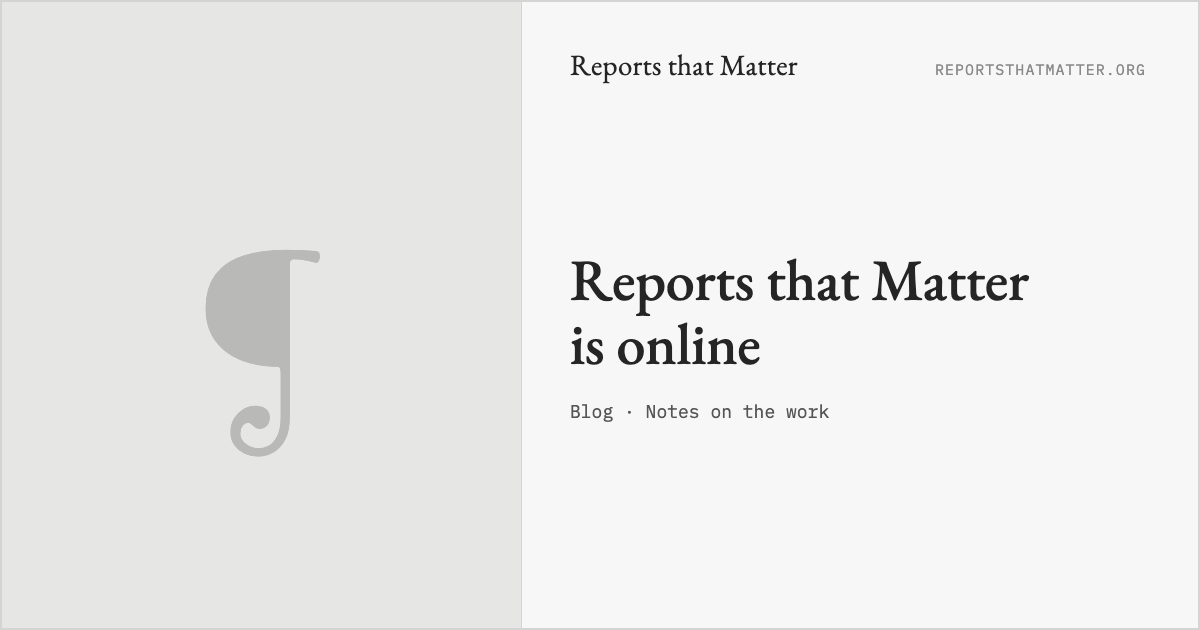
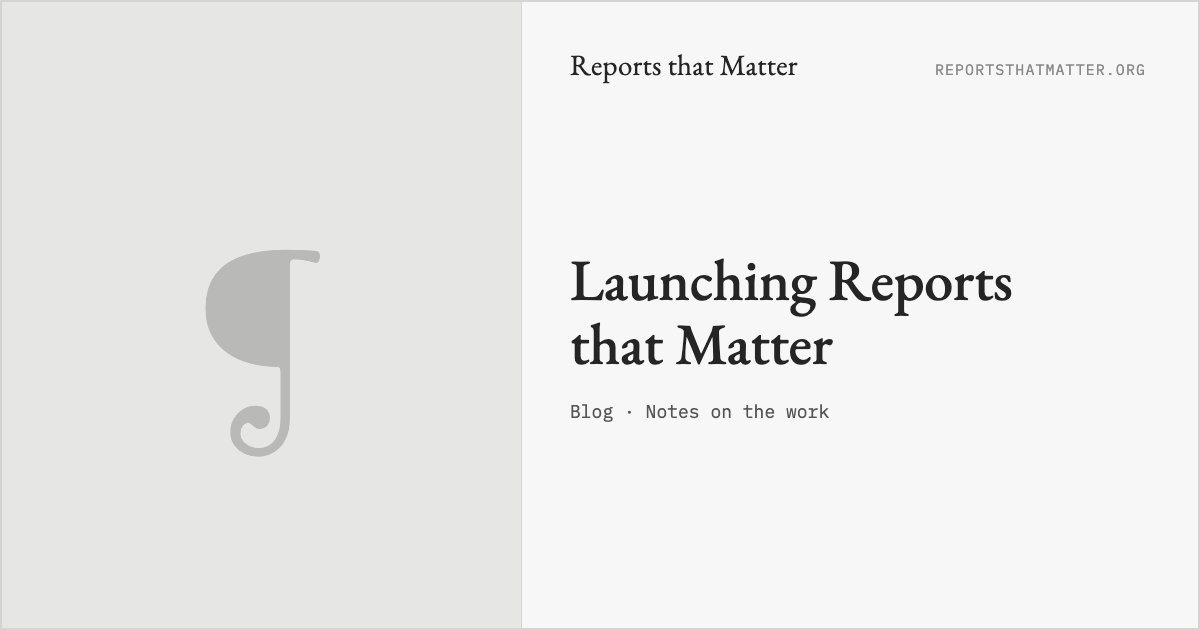
Announce post: Fable's edit (blockquotes, light bolding, report list), new title, bold-link line renders as buttons

Changed region(s): [[0.4625, 0.3921, 0.8633, 0.6032]]

diff --git a/assets/styles.css b/assets/styles.css
@@ -2081,3 +2081,22 @@ html.passage-landing body {
   font-size: 0.85rem;
   line-height: 1.5;
 }
+
+/* A post paragraph made only of bold links (e.g. "**[Visit the site →](…)** · **[Why I built it →](…)**") renders as buttons. */
+.prose p:has(> strong > a):not(:has(> :not(strong))) {
+  display: flex;
+  flex-wrap: wrap;
+  gap: 0.75rem;
+  font-size: 0; /* hides the " · " separator */
+}
+.prose p:has(> strong > a):not(:has(> :not(strong))) > strong { font-size: 1rem; font-weight: inherit; }
+.prose p:has(> strong > a):not(:has(> :not(strong))) > strong > a {
+  display: inline-block;
+  padding: 0.7rem 1.4rem;
+  border: 1px solid var(--inverse);
+  color: var(--ink);
+  text-decoration: none;
+  transition: background 0.15s ease, color 0.15s ease;
+}
+.prose p:has(> strong > a):not(:has(> :not(strong))) > strong:first-child > a { background: var(--inverse); color: var(--canvas); }
+.prose p:has(> strong > a):not(:has(> :not(strong))) > strong > a:hover { background: var(--inverse); color: var(--canvas); }

diff --git a/content/posts/reports-that-matter-is-online.md b/content/posts/reports-that-matter-is-online.md
@@ -1,14 +1,16 @@
 ---
-title: "Reports that Matter is online: 24 public inquiries as web pages you can read, search and link to"
+title: "Launching Reports that Matter: public inquiries as web pages you can read, search and link to"
 date: "2026-11-24"
 author: "Rufus Pollock"
 summary: "The official reports on 9/11, the financial crisis, the tobacco companies, Columbia, Chilcot, Grenfell, the Post Office and more, rebuilt from their PDFs as web pages, with every paragraph linkable and the official document one click away."
 status: published
 ---
 
-Public inquiries hold the most detailed record we have of what actually happened, and almost nobody reads past the summary. Reports that Matter puts those reports online as web pages you can read, search and link to. Every paragraph has its own link and its page number, and the official PDF is one click from every page.
+Public inquiries hold the most detailed record we have of what actually happened, and almost nobody reads past the summary. Reports that Matter puts those reports online as web pages you can read, search and link to. **Every paragraph has its own link** and its page number, and the official PDF is one click from every page.
 
-What these reports hold is the evidence: the companies' own memos, the emails with their time stamps, the morning rebuilt to the minute, gathered by people with the power to compel it. A report gets one news day, built from the executive summary, and then the evidence goes into a PDF on a website that often closes when the inquiry does. Reports that Matter puts it back where it can be read. The site is at [reportsthatmatter.org](https://reportsthatmatter.org); the essay on why it exists is [A treasure trove of facts that matter: why I built Reports that Matter](/blog/why-reports-that-matter).
+**What these reports hold is the evidence:** the companies' own memos, the emails with their time stamps, the morning rebuilt to the minute, gathered by people with the power to compel it. A report gets one news day, built from the executive summary, and then the evidence goes into a PDF on a website that often closes when the inquiry does. Reports that Matter puts it back where it can be read.
+
+**[Visit the site →](https://reportsthatmatter.org)**  ·  **[Why I built it →](/blog/why-reports-that-matter)**
 
 ![The Reports that Matter homepage: "Reports that shaped history are still trapped in PDFs", with buttons to read the reports and to find out what the site is.](/assets/blog/reports-that-matter-is-online/homepage.webp)
 
@@ -24,17 +26,58 @@ What these reports hold is the evidence: the companies' own memos, the emails wi
 
 ## Three passages from the record
 
-*United States v. Philip Morris* (2006), the judgment that found the American cigarette companies had deceived the public for at least 50 years, quotes a Brown & Williamson strategy paper on [p. 1537](https://reportsthatmatter.org/reports/us-v-philip-morris?p=paramount-significance-defendants-internal-documents): "Doubt is our product since it is the best means of competing with the 'body of fact' that exists in the mind of the general public. It is also the means of establishing a controversy." The case was built from the companies' own files, and this is the inside record of how an industry handled science it privately accepted.
+**_United States v. Philip Morris_ (2006)**, the judgment that found the American cigarette companies had deceived the public for at least 50 years, quotes a Brown & Williamson strategy paper on [p. 1537](https://reportsthatmatter.org/reports/us-v-philip-morris?p=paramount-significance-defendants-internal-documents):
 
-The Columbia Accident Investigation Board (2003) reprints the emails NASA's managers and engineers sent one another on 22 January 2003, 10 days before Columbia broke apart on re-entry, as a request to have the shuttle's wing photographed in orbit was raised and then cancelled. On [p. 157](https://reportsthatmatter.org/reports/columbia-accident?p=my-humble-technical-opinion-wrong) it prints one that an engineer, Rodney Rocha, wrote that afternoon and did not send: "In my humble technical opinion, this is the wrong (and bordering on irresponsible) answer from the SSP and Orbiter not to request additional imaging help from any outside source." You get the process, in order, with its times, from the emails; no summary carries it.
+> "Doubt is our product since it is the best means of competing with the 'body of fact' that exists in the mind of the general public. It is also the means of establishing a controversy."
 
-The Senate's financial-crisis report (2011) quotes, on [p. 297](https://reportsthatmatter.org/reports/us-psi-financial-crisis?p=times-some-cra-analysts-openly), a Standard & Poor's analyst's email of December 2006 about a security the agency had been asked to rate: "Let's hope we are all wealthy and retired by the time this house of cards falters." And an instant message from April 2007: "[W]e rate every deal[.] [I]t could be structured by cows and we would rate it." The report came out of a two-year investigation with subpoenas, and these are the people inside the rating agency, writing to each other at the time.
+The case was built from the companies' own files, and this is the inside record of how an industry handled science it privately accepted.
+
+**The Columbia Accident Investigation Board (2003)** reprints the emails NASA's managers and engineers sent one another on 22 January 2003, 10 days before Columbia broke apart on re-entry, as a request to have the shuttle's wing photographed in orbit was raised and then cancelled. On [p. 157](https://reportsthatmatter.org/reports/columbia-accident?p=my-humble-technical-opinion-wrong) it prints one that an engineer, Rodney Rocha, wrote that afternoon and did not send:
+
+> "In my humble technical opinion, this is the wrong (and bordering on irresponsible) answer from the SSP and Orbiter not to request additional imaging help from any outside source."
+
+You get the process, in order, with its times, from the emails; no summary carries it.
+
+**The Senate's financial-crisis report (2011)** quotes, on [p. 297](https://reportsthatmatter.org/reports/us-psi-financial-crisis?p=times-some-cra-analysts-openly), a Standard & Poor's analyst's email of December 2006 about a security the agency had been asked to rate:
+
+> "Let's hope we are all wealthy and retired by the time this house of cards falters."
+
+And an instant message from April 2007:
+
+> "[W]e rate every deal[.] [I]t could be structured by cows and we would rate it."
+
+The report came out of a two-year investigation with subpoenas, and these are the people inside the rating agency, writing to each other at the time.
 
 ![Search results for "chain of command" across every report, each with its report, chapter and page.](/assets/blog/reports-that-matter-is-online/search.webp)
 
 ## What is in it
 
-24 reports, from the UK and the US, published between 1986 and 2026. In date order: the House Science Committee's Challenger report (1986); the Columbia Accident Investigation Board (2003); the 9/11 Commission (2004); the Duelfer report on Iraq's weapons (2004); *United States v. Philip Morris* (2006); the Stern Review (2006); the Lehman Brothers examiner's report (2010); the Saville Inquiry (2010); the Deepwater Horizon commission (2011); the Senate's financial-crisis report (2011); the Hillsborough Independent Panel (2012); the Leveson Inquiry (2012); the Senate torture report (2014); the Litvinenko Inquiry (2016); the Chilcot Report (2016); the 2017 Intelligence Community Assessment of Russian election interference; the Mueller Report (2019); the January 6th Committee (2022); the Grenfell Tower Inquiry's Phase 2 report (2024); the Jack Smith report (2025); the Post Office Horizon IT Inquiry (2025); the Covid Inquiry's Module 2 report (2025); the Southport Inquiry's Phase 1 report (2026); and the Thirlwall Inquiry (2026).
+24 reports, from the UK and the US, published between 1986 and 2026. In date order:
+
+- The House Science Committee's Challenger report (1986)
+- The Columbia Accident Investigation Board (2003)
+- The 9/11 Commission (2004)
+- The Duelfer report on Iraq's weapons (2004)
+- *United States v. Philip Morris* (2006)
+- The Stern Review (2006)
+- The Lehman Brothers examiner's report (2010)
+- The Saville Inquiry (2010)
+- The Deepwater Horizon commission (2011)
+- The Senate's financial-crisis report (2011)
+- The Hillsborough Independent Panel (2012)
+- The Leveson Inquiry (2012)
+- The Senate torture report (2014)
+- The Litvinenko Inquiry (2016)
+- The Chilcot Report (2016)
+- The 2017 Intelligence Community Assessment of Russian election interference
+- The Mueller Report (2019)
+- The January 6th Committee (2022)
+- The Grenfell Tower Inquiry's Phase 2 report (2024)
+- The Jack Smith report (2025)
+- The Post Office Horizon IT Inquiry (2025)
+- The Covid Inquiry's Module 2 report (2025)
+- The Southport Inquiry's Phase 1 report (2026)
+- The Thirlwall Inquiry (2026)
 
 Some are not whole yet, and each says so at the top: Chilcot is the executive summary, Lehman is Volumes 1 and 3, and several others are their first volume. [All of them are here](/reports), and the appendix to the [essay](/blog/why-reports-that-matter) has a line on each.
 
